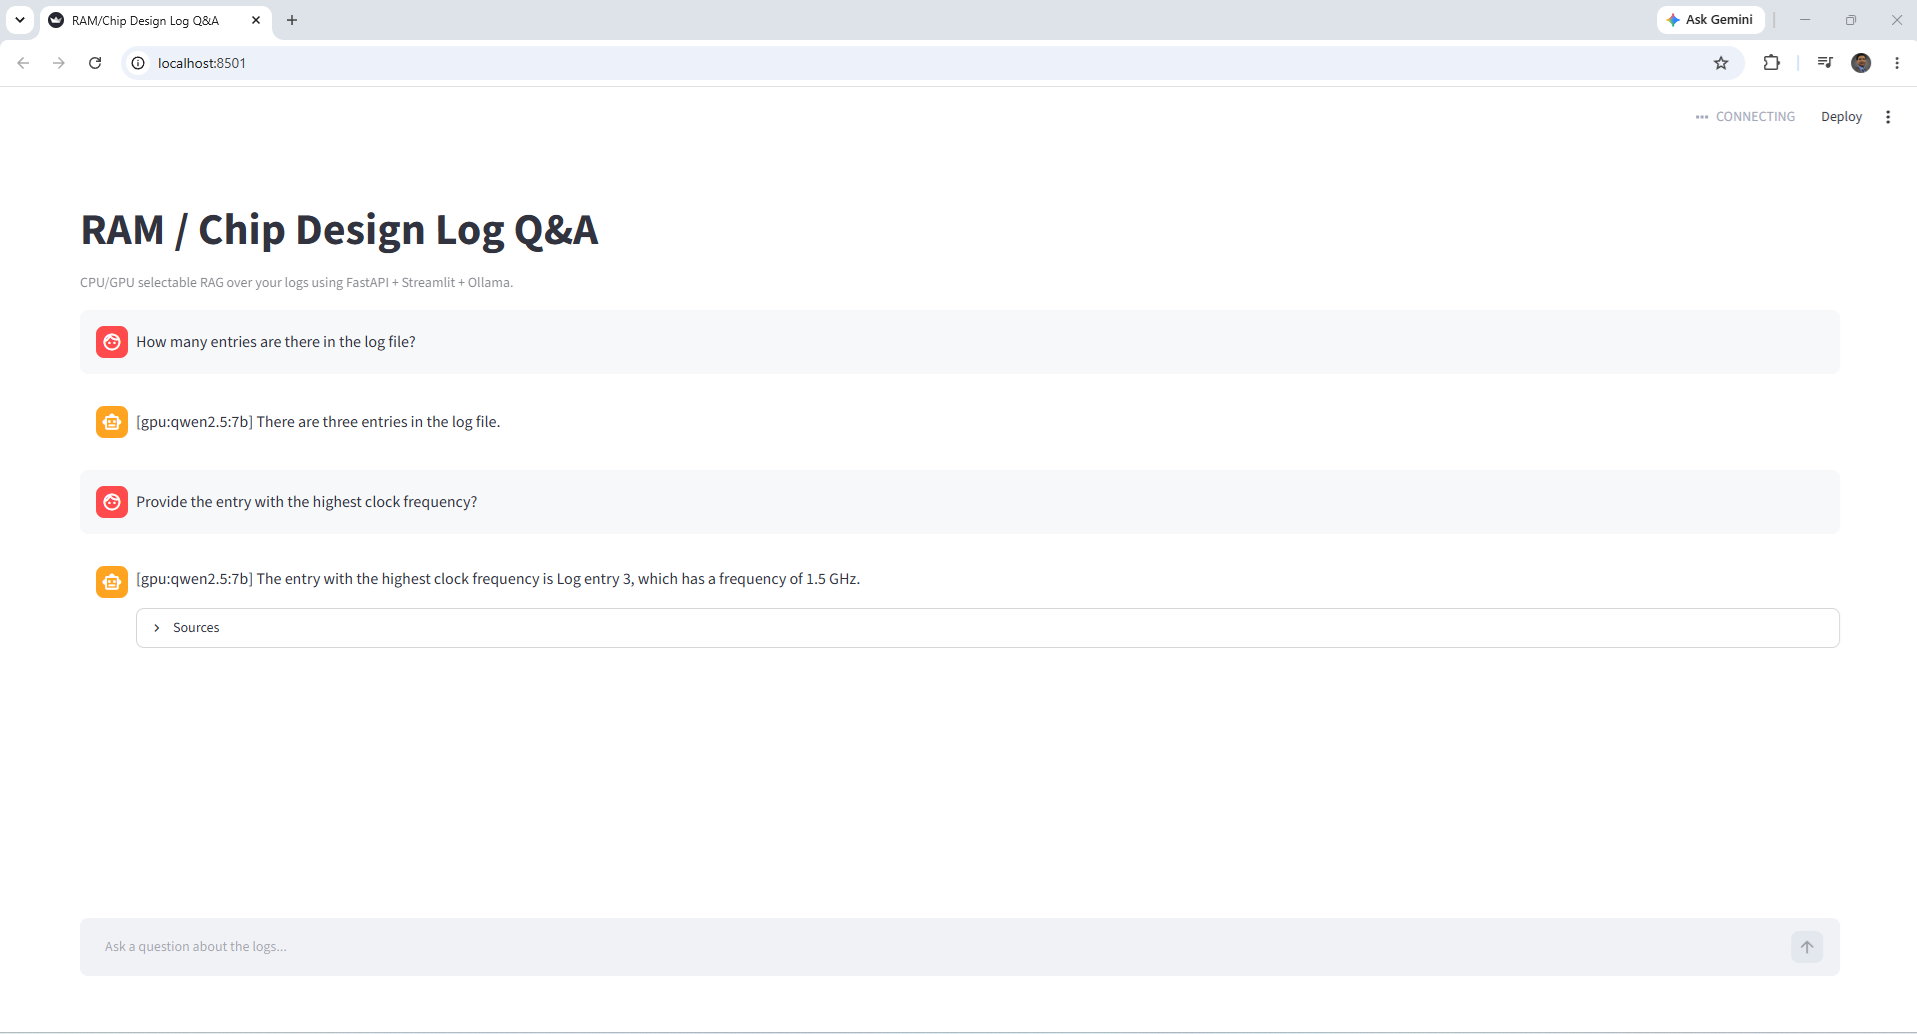
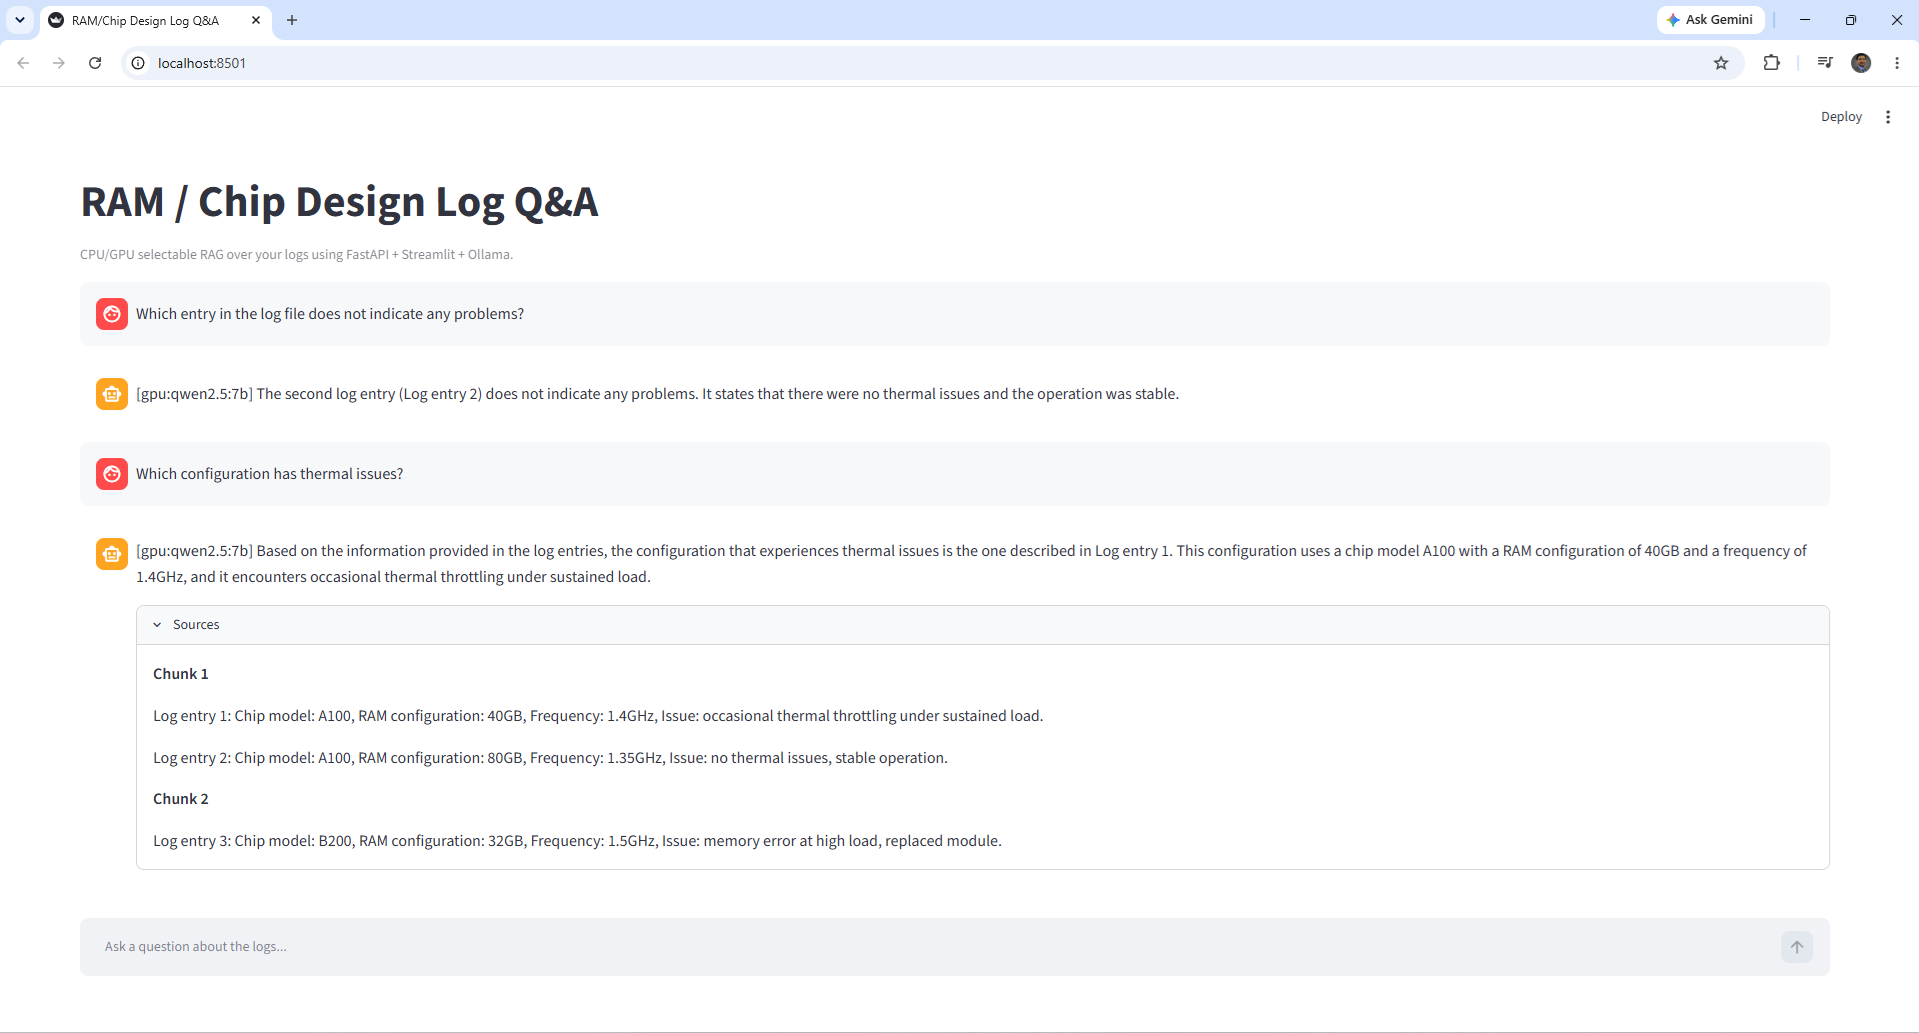
Converted hardcoded directory path to relative paths, fixed dates.

diff --git a/backend/config.py b/backend/config.py
@@ -1,12 +1,21 @@
 # backend/config.py
 # Author: Jitendra Pandey
-# Date Created: 2024-06-19
-# Date Modified: 2024-06-19
+# Date Created: 2026-07-12
+# Date Modified: 2026-07-12
 
 import os
 
 RUN_MODE = os.getenv("RUN_MODE", "cpu").lower()
 
+
+def resolve_project_root():
+    cwd = os.getcwd()
+    if os.path.basename(cwd).lower() == "backend":
+        return os.path.dirname(cwd)
+    return cwd
+
+
+PROJECT_ROOT = os.getenv("PROJECT_ROOT", resolve_project_root())
 MODEL_BY_MODE = {
     "cpu": "llama3.2:3b",
     "gpu": "qwen2.5:7b",
@@ -14,5 +23,5 @@ MODEL_BY_MODE = {
 
 OLLAMA_MODEL = os.getenv("OLLAMA_MODEL", MODEL_BY_MODE.get(RUN_MODE, "llama3.2:3b"))
 OLLAMA_HOST = os.getenv("OLLAMA_HOST", "http://localhost:11434")
-INDEX_PATH = os.getenv("INDEX_PATH", "ram_index")
-LOG_PATH = os.getenv("LOG_PATH", "C:/RAG-Demo/data/ram_log.txt")
+INDEX_PATH = os.getenv("INDEX_PATH", os.path.join(PROJECT_ROOT, "backend", "ram_index"))
+LOG_PATH = os.getenv("LOG_PATH", os.path.join(PROJECT_ROOT, "data", "ram_log.txt"))

diff --git a/backend/main.py b/backend/main.py
@@ -1,7 +1,7 @@
 # backend/main.py
 # Author: Jitendra Pandey
-# Date Created: 2024-06-19
-# Date Modified: 2024-06-19
+# Date Created: 2026-07-12
+# Date Modified: 2026-07-12
 
 from fastapi import FastAPI
 from fastapi.responses import JSONResponse
@@ -23,9 +23,10 @@ logger = logging.getLogger("uvicorn.error")
 
 app = FastAPI(title="RAM/Chip RAG API", debug=True)
 
-INDEX_PATH = Path(__file__).resolve().parent / "ram_index"
+PROJECT_ROOT = os.getenv("PROJECT_ROOT", os.getcwd())
+INDEX_PATH = Path(os.getenv("INDEX_PATH", os.path.join(PROJECT_ROOT, "backend", "ram_index")))
 OLLAMA_HOST = os.getenv("OLLAMA_HOST", "http://localhost:11434")
-RUN_MODE = os.getenv("RUN_MODE").lower()
+RUN_MODE = os.getenv("RUN_MODE", "cpu").lower()
 
 MODEL_BY_MODE = {
     "cpu": "llama3.2:3b",

diff --git a/backend/index.py b/backend/index.py
@@ -1,7 +1,7 @@
 # backend/index.py
 # Author: Jitendra Pandey
-# Date Created: 2024-06-19
-# Date Modified: 2024-06-19
+# Date Created: 2026-07-12
+# Date Modified: 2026-07-12
 
 from pathlib import Path
 from langchain_text_splitters import RecursiveCharacterTextSplitter
@@ -10,6 +10,7 @@ from langchain_community.vectorstores import FAISS
 from langchain_community.document_loaders import TextLoader
 
 from config import LOG_PATH, INDEX_PATH
+
 
 def build_index():
     loader = TextLoader(str(Path(LOG_PATH)), encoding="utf-8")
@@ -24,7 +25,7 @@ def build_index():
 
     vectorstore = FAISS.from_documents(chunks, embeddings)
     Path(INDEX_PATH).mkdir(parents=True, exist_ok=True)
-    vectorstore.save_local(INDEX_PATH)
+    vectorstore.save_local(str(INDEX_PATH))
     print(f"Index built and saved to {INDEX_PATH}")
 
 if __name__ == "__main__":

diff --git a/frontend/app.py b/frontend/app.py
@@ -1,7 +1,7 @@
 # frontend/app.py
 # Author: Jitendra Pandey
-# Date Created: 2024-06-19
-# Date Modified: 2024-06-19
+# Date Created: 2026-07-12
+# Date Modified: 2026-07-12
 
 import os
 import requests

diff --git a/README.md b/README.md
@@ -47,7 +47,7 @@ ram_log_rag/
 
 Pull them once:
 
-```powershell
+```command
 ollama pull llama3.2:3b
 ollama pull qwen2.5:7b
 ```
@@ -56,20 +56,20 @@ ollama pull qwen2.5:7b
 
 ### 1) Create and activate a virtual environment
 
-```powershell
+```command
 python -m venv .venv
 .venv\Scripts\activate
 ```
 
 ### 2) Install backend dependencies
 
-```powershell
+```command
 pip install -r backend\requirements.txt
 ```
 
 ### 3) Install frontend dependencies
 
-```powershell
+```command
 pip install -r frontend\requirements.txt
 ```
 
@@ -85,9 +85,8 @@ data/ram_log.txt
 
 Build the FAISS index from your log file:
 
-```powershell
-cd C:\RAG-Demo\backend
-python index.py
+```command
+python backend/index.py
 ```
 
 This creates the vector index used by the backend for retrieval.
@@ -98,41 +97,26 @@ This creates the vector index used by the backend for retrieval.
 
 In Windows Command Prompt:
 
-```powershell
+```command
 set RUN_MODE=cpu
-cd C:\RAG-Demo\backend
-uvicorn main:app --host 0.0.0.0 --port 8000
+uvicorn backend.main:app --host 0.0.0.0 --port 8000
 ```
 
 ### 2B) GPU mode
 
 In Windows Command Prompt:
 
-```powershell
+```command
 set RUN_MODE=gpu
-cd C:\RAG-Demo\backend
-uvicorn main:app --host 0.0.0.0 --port 8000
-```
-
-If needed, you can also set the model explicitly:
-
-```powershell
-set OLLAMA_MODEL=llama3.2:3b
-```
-
-or
-
-```powershell
-set OLLAMA_MODEL=qwen2.5:7b
+uvicorn backend.main:app --host 0.0.0.0 --port 8000
 ```
 
 ## Step 3: Run the Front-End App
 
 Then start Streamlit:
 
-```powershell
-cd C:\RAG-Demo\frontend
-streamlit run app.py
+```command
+streamlit run frontend/app.py
 ```
 
 Open the local Streamlit URL in your browser, usually:
@@ -145,8 +129,9 @@ http://localhost:8501
 
 Try these questions in the chat UI:
 
-- Question 1: How many entries are there in the log file?
-- Question 2: Provide the entry with the highest clock frequency?
+- Question 1: Provide the entry with the highest clock frequency?
+- Question 2: Which entry in the log file does not indicate any problems?
+- Question 3: Which configuration has thermal issues?
 
 ## API Endpoints
 